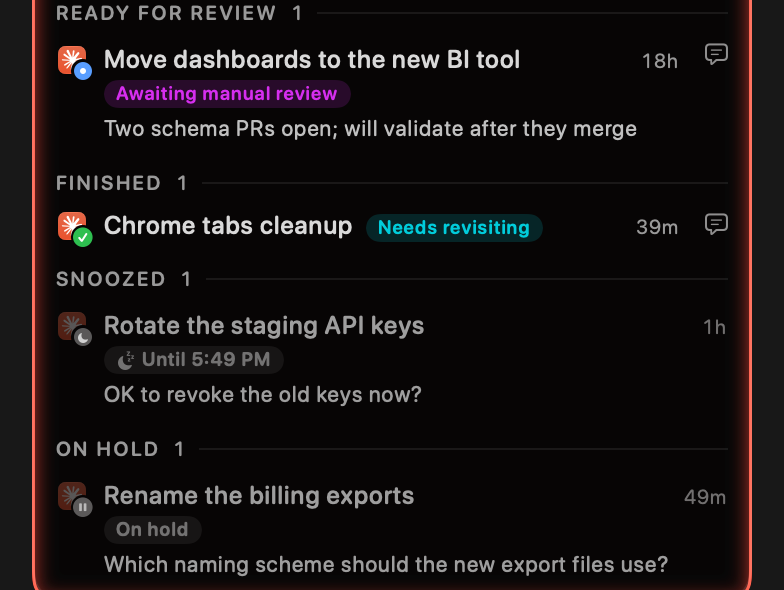
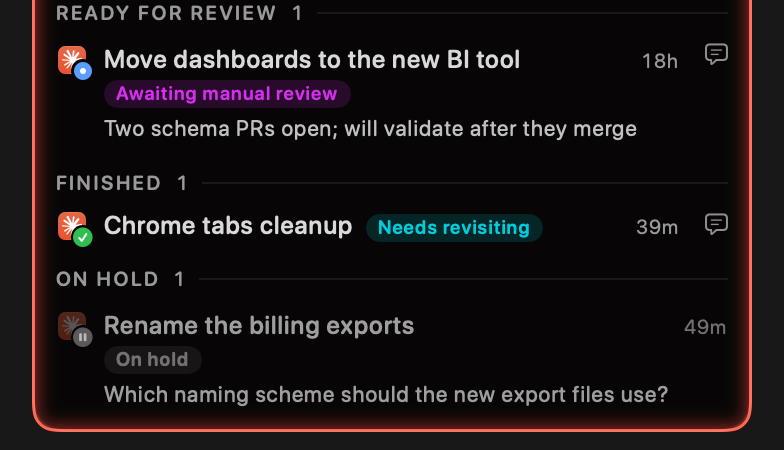
Keep-on-top window: snoozed sessions leave the list
Snoozed sessions are no longer listed in the window (the list and the
columns), nor counted in "Showing N of M". A moon with how many are
snoozed sits in the header after the count chips, as in the strip, bar
and dots; its menu says when each wakes, and wakes one, all, or opens
one. The moon is one of the header's fitting variants, so in a narrow
window it gives way to the counts rather than squeezing them out. The
menu bar panel keeps its folded Snoozed section.

README and the screenshots that showed a Snoozed section are updated.

diff --git a/tasks/main.swift b/tasks/main.swift
@@ -4420,7 +4420,8 @@ struct FloatingRows {
     let finished: [Row]
     /// Sessions you put on hold, within the header's time choice; listed last.
     let onHold: [Row]
-    /// Sessions you snoozed, until they wake; listed after the finished ones.
+    /// Sessions you snoozed, until they wake: never listed, only a moon and
+    /// a count in the header (and the strip, bar and dots), whose menu wakes them.
     let snoozed: [Row]
     /// Waiting or review sessions older than the header's time choice.
     let hidden: Int
@@ -4436,7 +4437,7 @@ struct FloatingRows {
         hidden = (allWaiting + board.review).filter { now.timeIntervalSince($0.since) > limit }.count
     }
 
-    var all: [Row] { running + waiting + review + finished + snoozed + onHold }
+    var all: [Row] { running + waiting + review + finished + onHold }
 
     func rows(_ filter: RowFilter?) -> [Row] {
         switch filter {
@@ -4635,14 +4636,14 @@ struct FloatingView: View {
     static let corner: CGFloat = 16
 
     /// The cards ("Waiting on you"), then the other sessions under small
-    /// headings: Running, Needs you, Ready for review, Finished, Snoozed, On hold.
+    /// headings: Running, Needs you, Ready for review, Finished, On hold.
+    /// Snoozed sessions aren't listed: the header's moon counts them.
     private func content(_ carded: [Row], _ rows: [Row]) -> some View {
         let sections: [(title: String, rows: [Row])] = [
             ("Running", rows.filter { $0.group == .running && !$0.held }),
             ("Needs you", rows.filter { $0.group == .yourTurn && !$0.held }),
             ("Ready for review", rows.filter { $0.group == .review && !$0.held }),
             ("Finished", rows.filter { ($0.group == .justFinished || $0.group == .done) && !$0.held }),
-            ("Snoozed", rows.filter(\.snoozed)),
             ("On hold", rows.filter { $0.held && !$0.snoozed }),
         ].filter { !$0.rows.isEmpty }
         return VStack(alignment: .leading, spacing: 0) {
@@ -4746,16 +4747,22 @@ struct FloatingView: View {
             LimboMark(size: 16)
             // Full chips when they fit, then compact ones (mark and number),
             // then a check for Got it, then only the chosen filter's chip: the
-            // header never grows past the window.
+            // header never grows past the window. Snoozed sessions aren't
+            // listed: a moon counts them (its menu wakes them), and gives way
+            // to the counts when there isn't room for both.
             // (In a stack of its own: a priority set inside an `if` is lost.)
             HStack(spacing: 0) {
                 if counts {
                     ViewThatFits(in: .horizontal) {
-                        headerCounts(list, filter: active, fit: .full)
-                        headerCounts(list, filter: active, fit: .compact)
-                        headerCounts(list, filter: active, fit: .compactIcon)
-                        headerCounts(list, filter: active, fit: .minimal)
+                        headerCounts(list, filter: active, fit: .full, moon: true)
+                        headerCounts(list, filter: active, fit: .compact, moon: true)
+                        headerCounts(list, filter: active, fit: .compactIcon, moon: true)
+                        headerCounts(list, filter: active, fit: .compact, moon: false)
+                        headerCounts(list, filter: active, fit: .compactIcon, moon: false)
+                        headerCounts(list, filter: active, fit: .minimal, moon: false)
                     }
+                } else {
+                    headerMoon(list)
                 }
             }
             .layoutPriority(1)
@@ -4830,7 +4837,7 @@ struct FloatingView: View {
 
     /// The counts as chips that filter the list, "All finished" or "All
     /// caught up" when there are none, and Got it while it glows amber or green.
-    private func headerCounts(_ list: FloatingRows, filter active: RowFilter?, fit: HeaderFit) -> some View {
+    private func headerCounts(_ list: FloatingRows, filter active: RowFilter?, fit: HeaderFit, moon: Bool) -> some View {
         let all = RowFilter.allCases.filter { list.count($0) > 0 }
         let kinds = fit == .minimal ? all.filter { $0 == active } : all
         let compact = fit != .full
@@ -4890,8 +4897,15 @@ struct FloatingView: View {
                                            : "Got it: stop the amber glow without opening the session")
                 .accessibilityLabel("Got it")
             }
+            if moon { headerMoon(list) }
         }
         .fixedSize()
+    }
+
+    /// The header's moon: how many sessions are snoozed, none of them listed.
+    @ViewBuilder private func headerMoon(_ list: FloatingRows) -> some View {
+        snoozedChip(list.snoozed, height: 18)
+            .font(.system(size: 11, weight: .semibold).monospacedDigit())
     }
 
     private func chipTitle(_ kind: RowFilter, _ n: Int) -> String {
@@ -5506,7 +5520,7 @@ struct FloatingView: View {
                 columnDivider
                 column("Waiting on you", g.waiting + g.review)
                 columnDivider
-                column("Finished", g.finished + list.snoozed + list.onHold)
+                column("Finished", g.finished + list.onHold)
             }
             .fixedSize(horizontal: false, vertical: true)
             .padding(.bottom, 6)
@@ -8950,6 +8964,7 @@ func runSelfTest() {
     check("snoozed asking rows leave the strip",
           FloatingView.Compact(snoozedList).waiting.isEmpty && FloatingView.stripRows(snoozedList).shown.map(\.id) == ["local_z3"])
     check("Snoozed lists the soonest to wake first", snoozedList.snoozed.map(\.id) == ["local_z1", "local_z2"])
+    check("snoozed sessions aren't listed in the window", !snoozedList.all.contains(where: \.snoozed))
     check("a snooze is kept in the settings", Set(SessionSnoozes.load(snoozeDefaults).byId.keys) == ["local_z1", "local_z2"])
     check("a snooze leaves running rows alone",
           SessionSnoozes(byId: ["local_z3": .init(until: .distantFuture, at: Date())]).apply(to: [busy], now: Date())[0].snoozedUntil == nil)

diff --git a/README.md b/README.md
@@ -57,7 +57,7 @@ A stable signing identity keeps macOS's Accessibility permission (used by Answer
 
 A small window with the running sessions, the ones waiting for you or ready for review, and ones finished in the last 2 hours; the pin in the menu bar panel opens it. It stays above other windows, full-screen videos and games included, on every Space, and never takes keyboard focus, so it never interrupts what you type.
 
-- **Sections:** small capital headings with a count and a hairline: Waiting on you, Running, Needs you, Ready for review, Finished, Snoozed, On hold.
+- **Sections:** small capital headings with a count and a hairline: Waiting on you, Running, Needs you, Ready for review, Finished, On hold. Snoozed sessions aren't listed: a moon in the header counts them (see [Snooze](#snooze)).
 - **Look:** the system's glass background, like other macOS windows and alerts, darkened in Dark Mode the way Control Center's panels are (the blurred material before macOS 26), Apple's rounded system font, 16-point corners, a light blue backing behind running sessions, stronger titles for sessions still going, one line per finished session.
 - **A mark per state,** told apart by shape as well as colour: a turning blue ring (running), an hourglass (running but nothing written for 10 minutes), an exclamation (needs you), an eye (ready for review), a check (finished), a moon (snoozed), a pause mark (on hold). Every time uses one short style: "4m 12s" ticking for running sessions, "6m", "18h", "now" for the rest.
 - **Running sessions** show what they are doing now, like Claude's own status line ("Thinking", the command being run, the file being edited), with a light band sweeping across it. A session between turns that still has background tasks running shows "2 background tasks running" and counts as running.
@@ -161,7 +161,8 @@ The agent threads open in Orca's tabs show, led by their agent's icon (Claude's,
 
 Snooze a session that needs you (or is ready for review, or asked you something) when you don't want to deal with it yet: **For 1 Hour**, **For 3 Hours** or **Until Tomorrow Morning** (9:00). Pick it from the session's right-click menu, anywhere it shows, or from the **Snooze 1h 3h Tomorrow** buttons under a card in the strip, the bar and the dots.
 
-- A snoozed session moves to its own Snoozed section, dimmed with a moon and when it wakes ("Until 8:02 PM"). It no longer counts as needing you, in the header or the menu bar, and never starts a glow. The strip, the bar and the dots show a moon with how many are snoozed; its menu wakes one, or all, or opens one in Claude.
+- A snoozed session leaves the window's list. It no longer counts as needing you, in the header or the menu bar, and never starts a glow. A moon in the window's header (and in the strip, the bar and the dots) shows how many are snoozed; its menu says when each wakes, and wakes one, or all, or opens one in Claude. In a narrow window the moon gives way to the counts.
+- The menu bar panel keeps them in a folded Snoozed section, dimmed, with when each wakes ("Until 8:02 PM").
 - It wakes on its own at that time, back where it was; one that needs you glows amber again, as if it had just asked. It wakes early if the session moves on: you answer it, or it ends another turn. **Wake Now** in its right-click menu brings it back at once.
 - Snoozes live in Limbo's own settings, like tags; sessions started in a terminal can't be snoozed.
 
